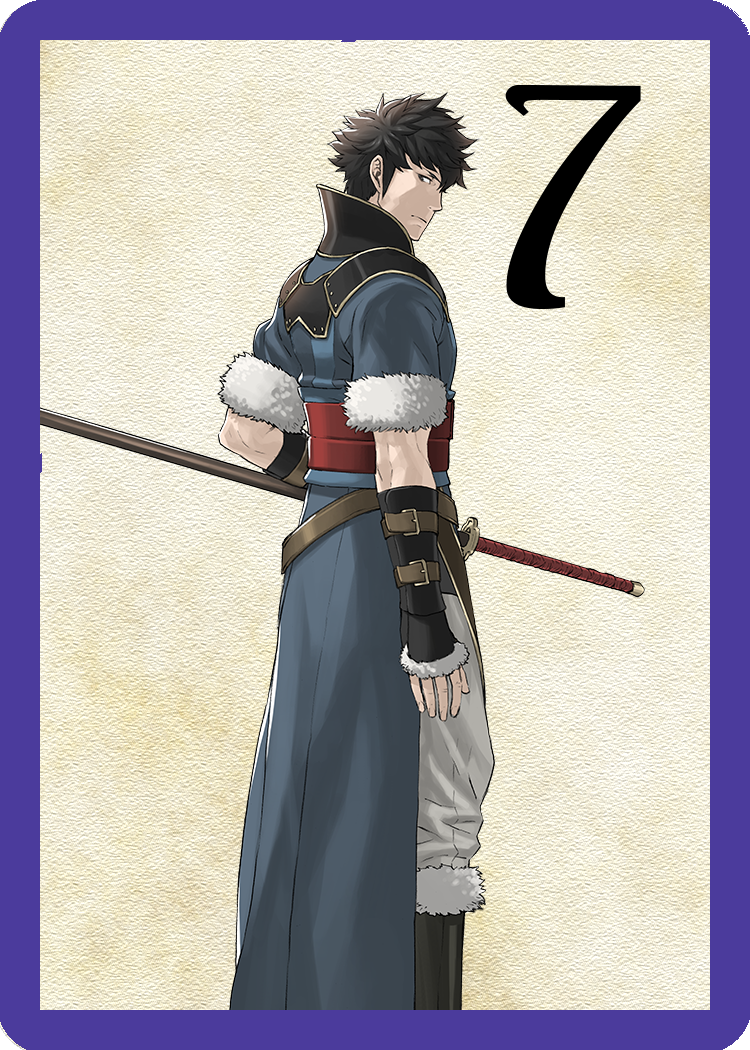
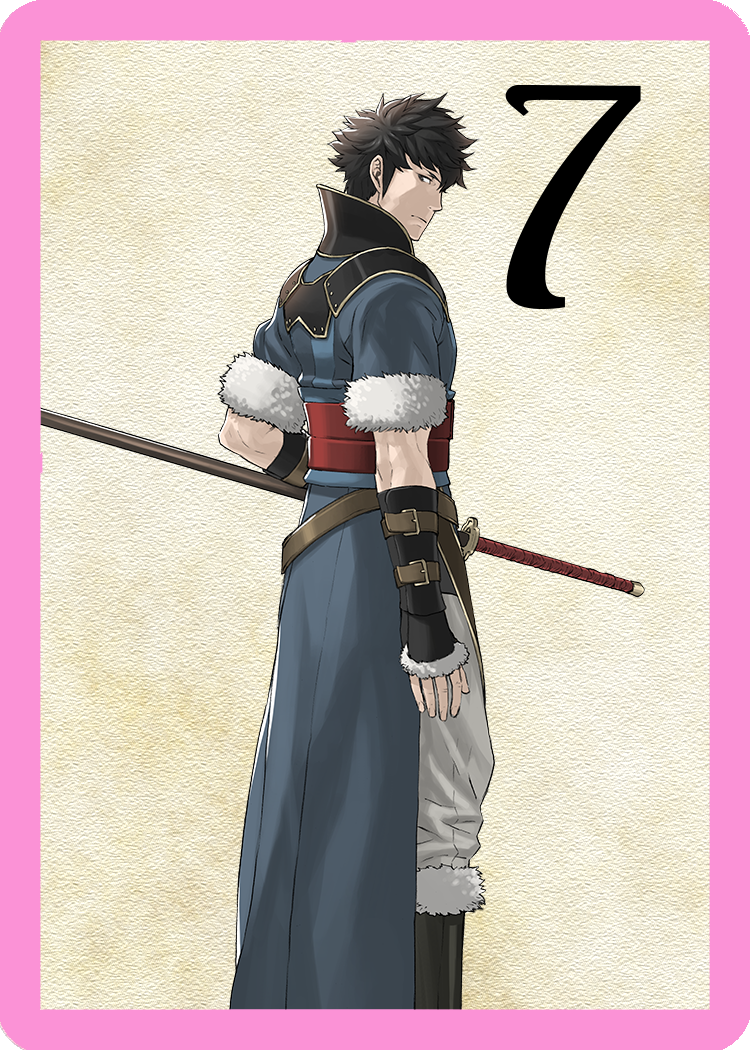
Art Assets Hotfix

Changed region(s): [[0.0, 0.0, 1.0, 1.0]]

diff --git a/public/assets/css/style.css b/public/assets/css/style.css
@@ -312,7 +312,7 @@ div.container {
 
 /* Fire Emblem */
 #deckbuilder #coll8 {
-    background-color: #4b3b9c;   
+    background-color: #fb92d6;   
 }
 
 /* Favicons */
